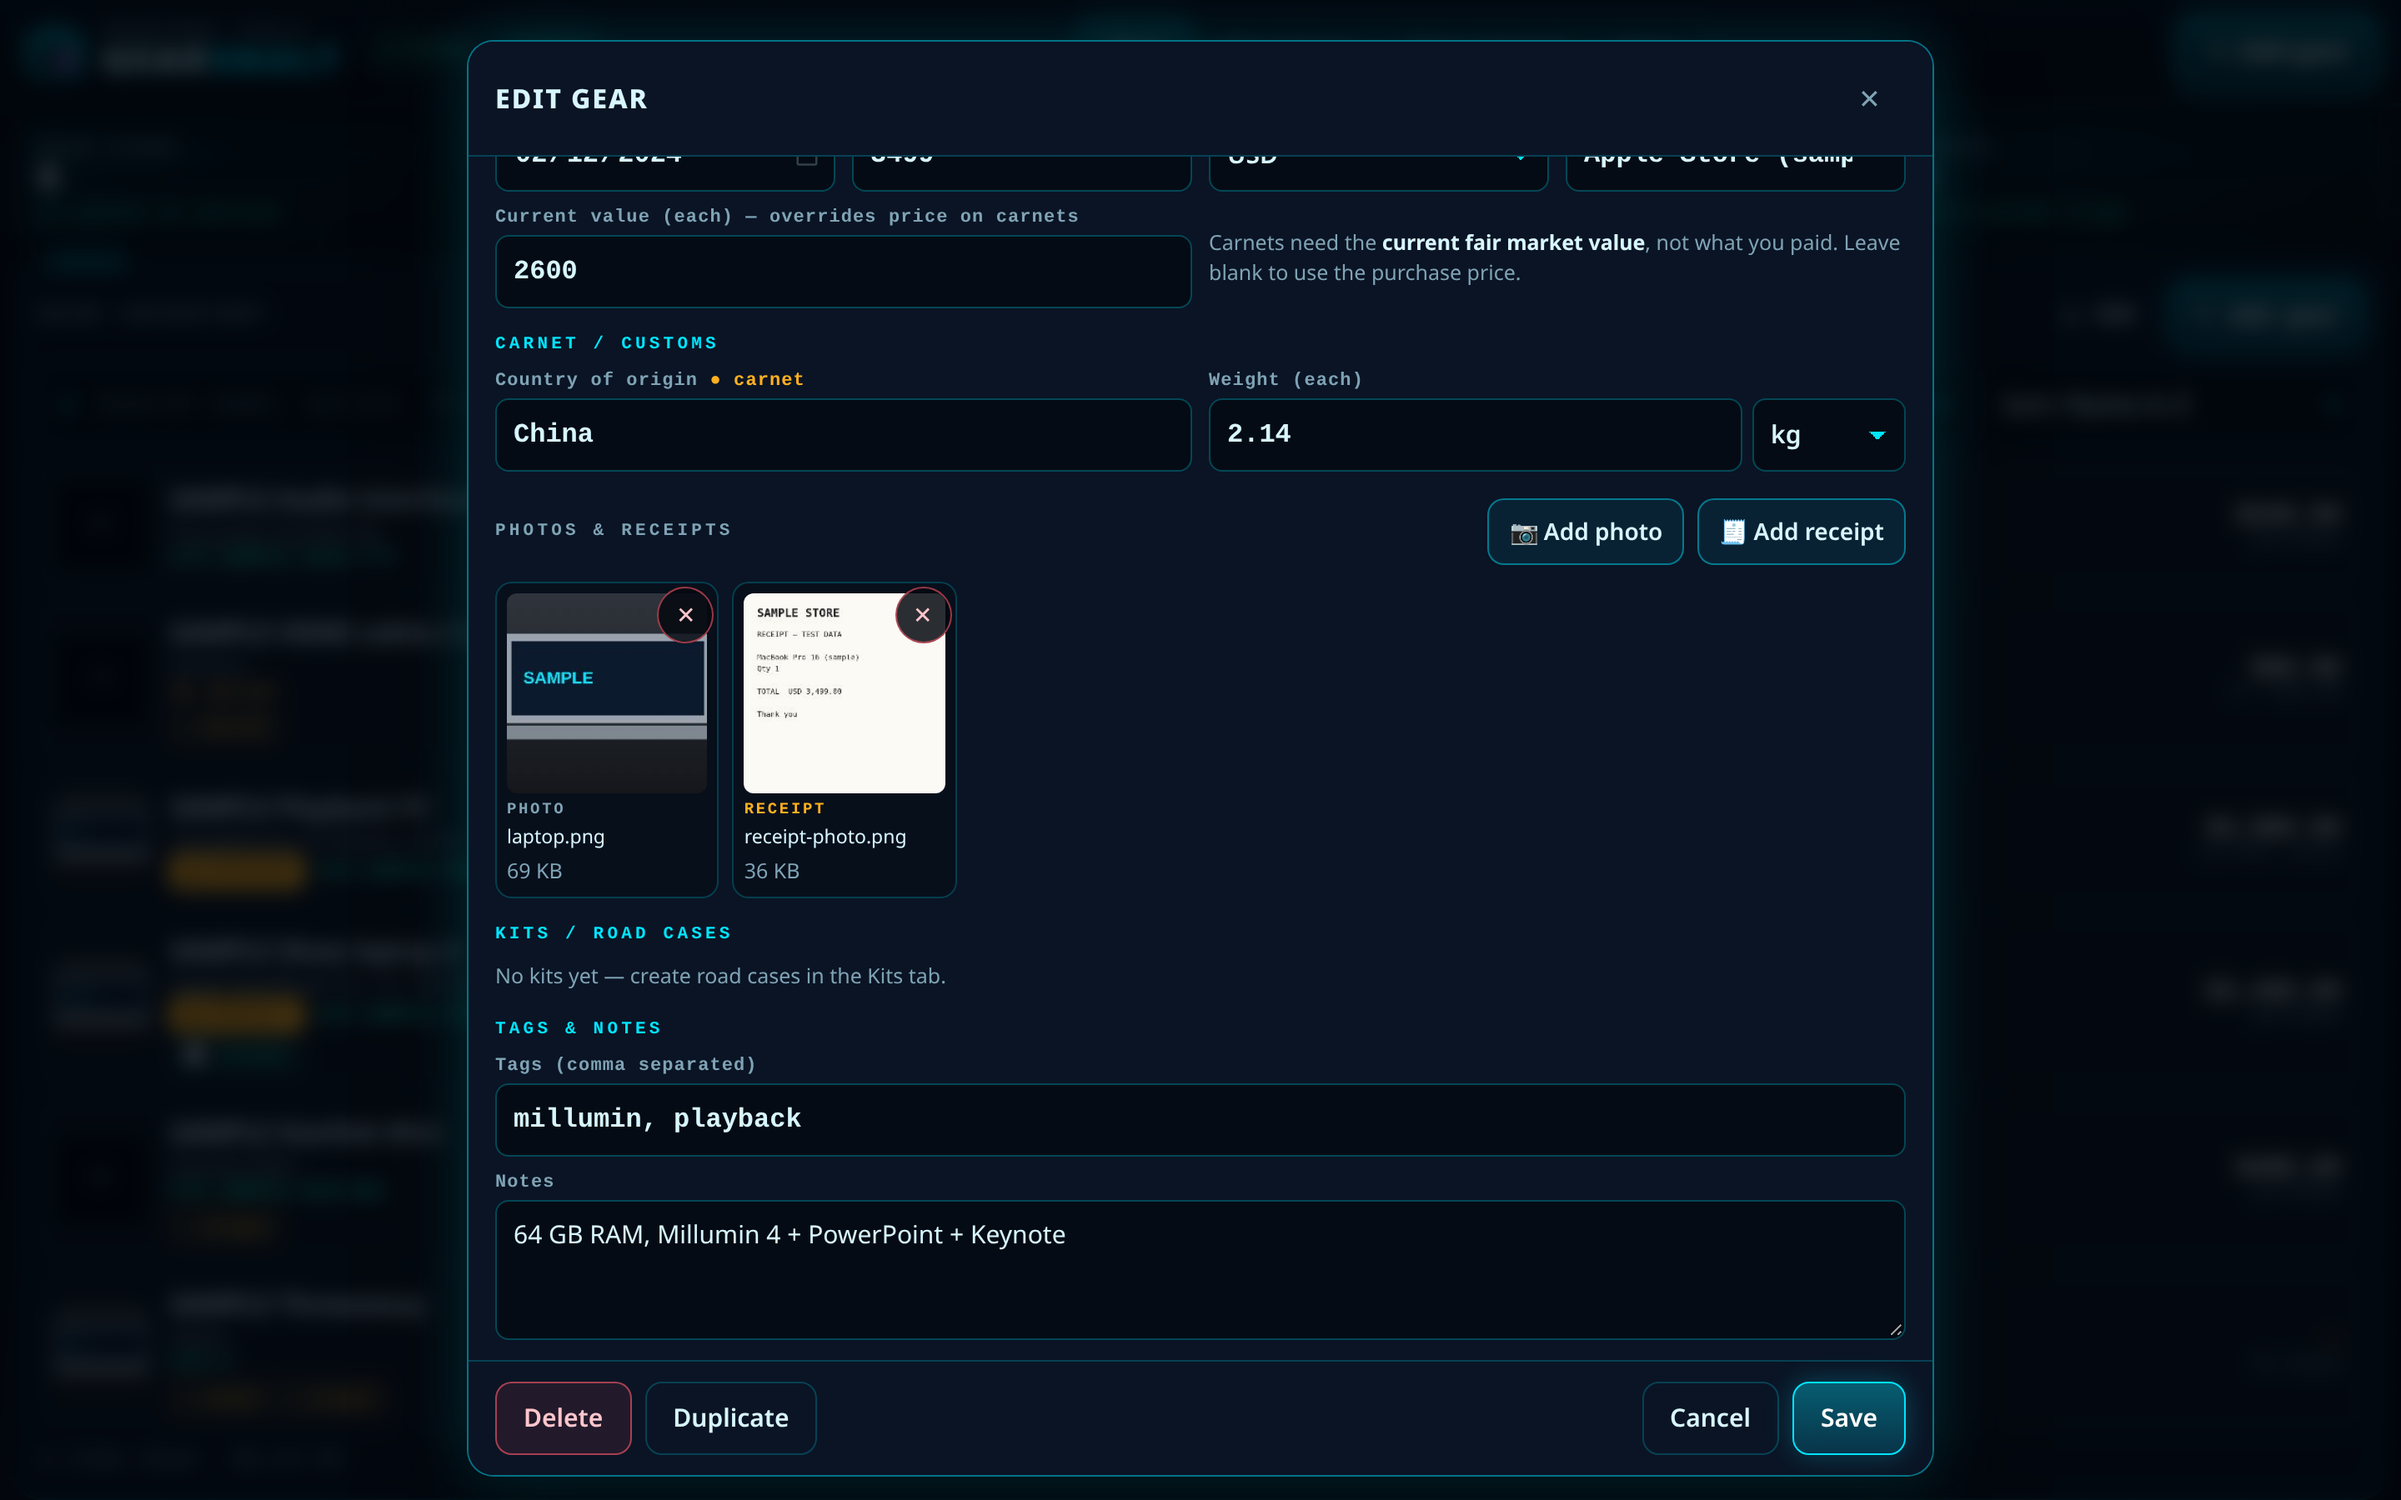
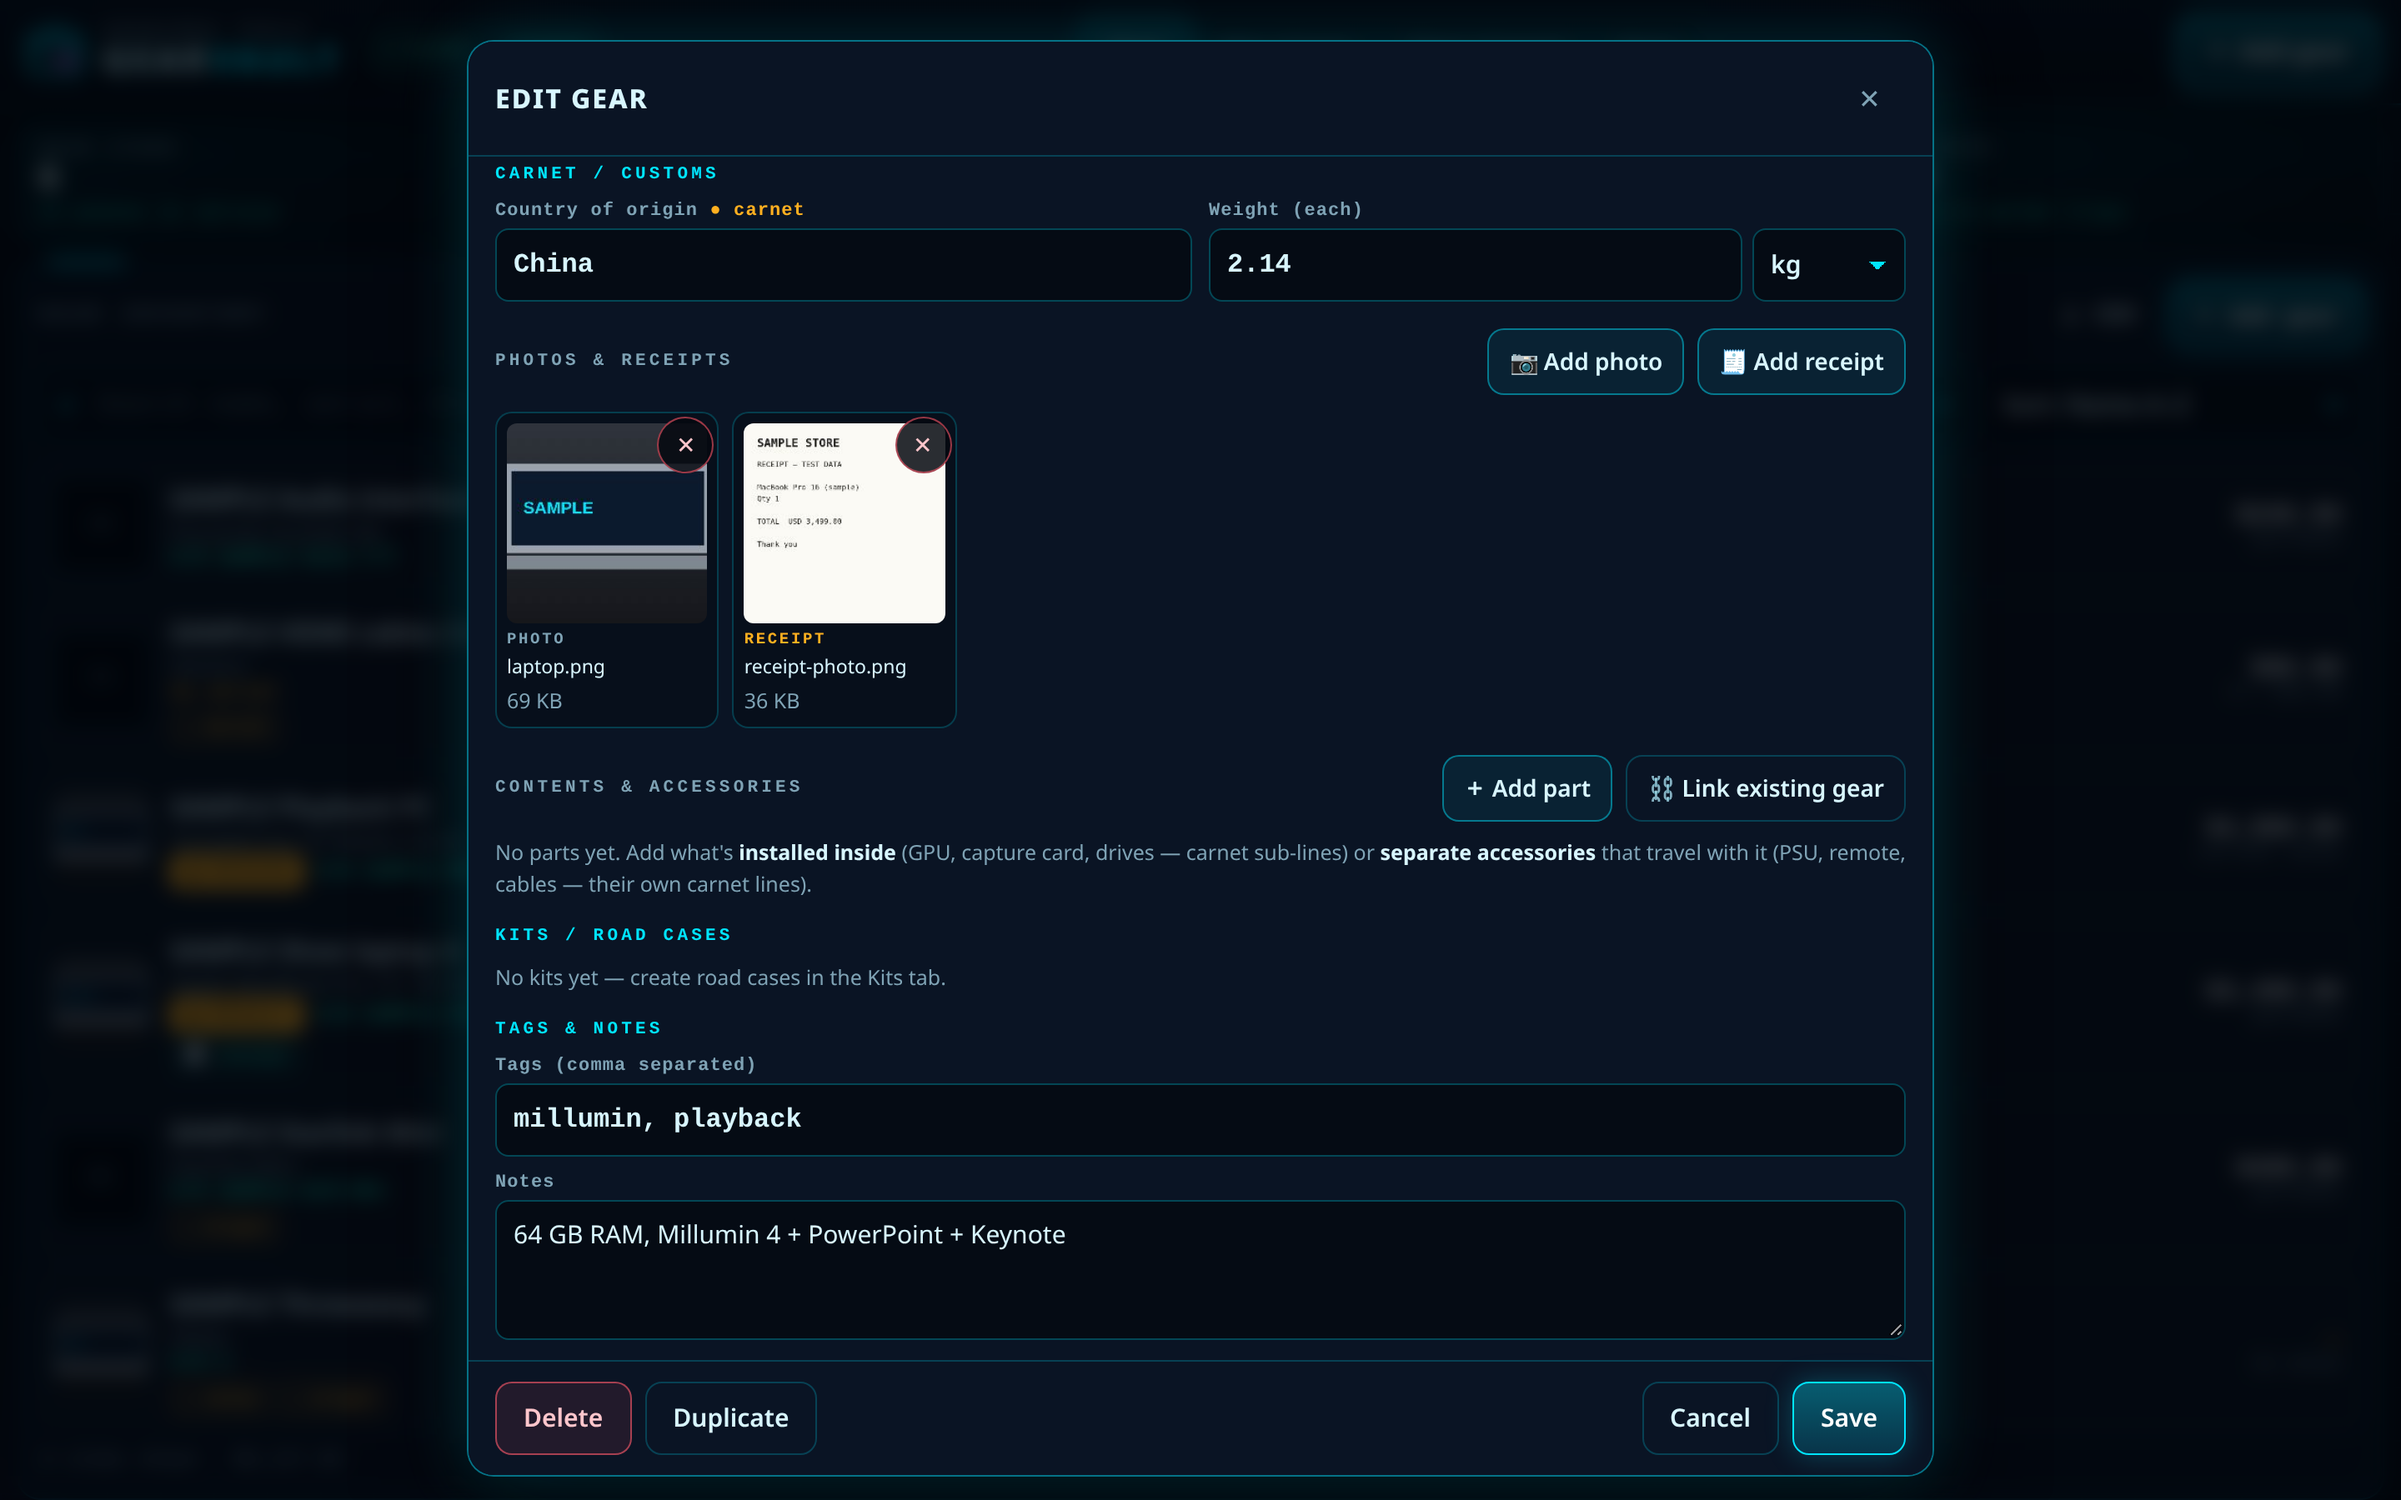
v2.2 step 9: README

diff --git a/README.md b/README.md
@@ -1,4 +1,4 @@
-# ShowCrew GearVault — ShowCrew Tools (v2.1 · Supabase cloud)
+# ShowCrew GearVault — ShowCrew Tools (v2.2 · Supabase cloud)
 
 Track computer / show gear (Millumin, PowerPoint & Keynote rigs, rack PCs, audio, network, cables, cases) with photos and receipts,
 group it into kits / road cases, and build the **ATA Carnet General List** for travel abroad.
@@ -12,7 +12,7 @@ Live: https://don-duckworth.github.io/showcrew-gearvault/ (GitHub Pages, `main` 
 ## Status of Don's project
 
 Project **ShowCrew GearVault** (ref `ggtkglxvuxvmuqtpvlgs`, us-east-2). Steps 1, 2 and 7 below are **done**: the schema is applied
-(migrations `init_gearvault` + `init_gearvault_advisor_fixes`, and for v2.1 `electromaxx_no` + `electromaxx_trip_toggle` = `0002_electromaxx.sql`) and `js/config.js` holds the project URL and the `sb_publishable_…` key.
+(migrations `init_gearvault` + `init_gearvault_advisor_fixes`, for v2.1 `electromaxx_no` + `electromaxx_trip_toggle` = `0002_electromaxx.sql`, and for v2.2 `parts_parent_child` = `0003_parts.sql`) and `js/config.js` holds the project URL and the `sb_publishable_…` key.
 Still to do in the dashboard (steps 3–6):
 
 - URL configuration (Site URL + Redirect URLs): https://supabase.com/dashboard/project/ggtkglxvuxvmuqtpvlgs/auth/url-configuration
@@ -27,7 +27,8 @@ Still to do in the dashboard (steps 3–6):
 2. **Create the tables, security rules and file bucket** — Dashboard → *SQL Editor* → *New query* → paste all of
    [`supabase/migrations/0001_init.sql`](supabase/migrations/0001_init.sql) → *Run*. It's safe to run again.
    It creates the tables, Row Level Security, and the private Storage bucket **`gear-files`** (no need to create the bucket by hand).
-   Then do the same with [`supabase/migrations/0002_electromaxx.sql`](supabase/migrations/0002_electromaxx.sql) (v2.1 Electromaxx gear number; also safe to re-run).
+   Then do the same with [`supabase/migrations/0002_electromaxx.sql`](supabase/migrations/0002_electromaxx.sql) (v2.1 Electromaxx gear number) and
+   [`supabase/migrations/0003_parts.sql`](supabase/migrations/0003_parts.sql) (v2.2 parts & accessories) — both safe to re-run.
 3. **Point auth at the app** — *Authentication → URL Configuration*:
    - **Site URL**: `https://don-duckworth.github.io/showcrew-gearvault/`
    - **Redirect URLs**: add `https://don-duckworth.github.io/showcrew-gearvault/` (and `http://localhost:8766/` if you test locally).
@@ -90,6 +91,27 @@ which only matters for password resets. Free-plan projects pause after a week of
   - *CSV*: inventory export has an **`Electromaxx #`** column; import also accepts `Electromaxx No`, `Electromaxx Number`, `electromaxx_no`, `EMX`,
     `EMX #`, `Asset tag`, `Gear #`, `Barcode`… Excel drops leading zeros (`4217`) — import pads them back to `004217`. Invalid or duplicate numbers are
     skipped (the item is still imported) and counted in the import message. JSON backup/restore and the v1 upload carry the field too.
+- **Parts & accessories (v2.2)** — gear can contain gear (`js/parts.js`). In the DB: `items.parent_id` (composite FK `(owner_id, parent_id)` →
+  `items(owner_id, id)`, so a part can only belong to *your* item; `on delete set null`), `items.part_type` = `installed` | `accessory`, a trigger that
+  rejects cycles (A part of B part of A), and `trips.fold_parts`.
+  - *Item editor*: **Contents & accessories** lists the parts (type, Electromaxx #, serial, value, total incl. parts). **＋ Add part** asks *Installed
+    inside* or *Separate accessory* and opens a new item prefilled with the parent's category, vendor, purchase date, country (and currency); saving
+    returns you to the parent. **⛓ Link existing gear** is a searchable picker (never offers the item itself or anything it is part of). ⛓✕ unlinks.
+    A part's editor shows **Part of: <parent>** (tap to open it), its part type and **Unlink**. Adding a part / linking on a brand-new item saves it first.
+  - *Deleting a parent* asks: **delete it and its parts**, or **keep the parts as standalone gear** (only its direct parts are unlinked).
+  - *Gear list*: parts are nested (indented) under their parent; the magenta **N parts** badge collapses/expands them. With a search or filter the list
+    is flat and parts carry a **↳ part of X** tag. Each item is counted once in the totals; a parent also shows its value **incl. parts** (info only).
+  - *Scan*: scanning a part's Electromaxx # opens the part and shows its parent.
+  - *Kits / trips*: adding a parent brings all its parts (any depth) along; counts include them. Any part line can still be left off one trip (✕),
+    and leaving off a parent leaves off the parts that came with it.
+  - *Carnet*: an **accessory** is its own numbered line ("accessory to item 1") and counts as pieces. **Installed** parts are sub-lines **1a, 1b…**
+    with description, serial, value and origin — no pieces, weight "incl." in the parent, value in the totals. Per-trip switch **Fold installed parts
+    into parent line** adds their value to the parent line and appends "— incl. installed: … S/N …" to its description. Missing serial / value / origin
+    checks cover parts (installed parts aren't asked for a weight). Print/PDF and CSV follow the same layout.
+  - *CSV*: inventory export/import has **Parent Electromaxx #**, **Parent serial**, **Part type** (`installed` / `accessory`; also "Installed inside",
+    "Separate accessory"). Import links rows after all rows are in (a part may come before its parent), by Parent Electromaxx #, else Parent serial;
+    unknown parents are counted in the message and the item is imported standalone. Empty parent cells don't unlink an existing part.
+    JSON backup/restore and the v1 upload carry `parentId` / `partType` / `foldParts`.
 - **Barcode scanning** (`js/scan.js`, `js/emx.js`)
   - Uses the browser's native **`BarcodeDetector`** where it exists (Chrome/Edge on Android, ChromeOS, macOS). Otherwise (iPhone/iPad Safari, Firefox,
     desktop Chrome on Windows/Linux) it loads the vendored **ZXing** decoder (`js/vendor/zxing.min.js`, @zxing/library 0.23.0, Apache-2.0 — no CDN;
@@ -108,14 +130,20 @@ which only matters for password resets. Free-plan projects pause after a week of
 
 ## Tests
 
-- `node tools/test-carnet.mjs` — carnet/CSV logic + cloud row mapping (round-trip, diff, deterministic v1→UUID ids).
+- `node tools/test-carnet.mjs` — carnet/CSV logic + cloud row mapping (round-trip, diff, deterministic v1→UUID ids), and v2.2 parts: tree helpers,
+  cycle/dangling cleanup, sub-line numbering, pieces/value/weight totals, fold, exclusions, CSV parent columns, parents-first upsert order.
 - `GV_URL=http://127.0.0.1:8766/ node tools/browser-test.mjs` — headless desktop / iPad / iPhone run (needs playwright and a local server).
   Uses an in-browser **fake Supabase client** (`tools/fake-supabase.js`, injected through `window.__GV_TEST_SUPABASE__`) that simulates auth, TOTP
   (code `246810`), owner-only + aal2 RLS and storage — no real project needed. Writes `screenshots/`.
 - Browser test section *1b* covers the Electromaxx field: validation/duplicates, CSV aliases, carnet toggle, decoding every barcode fixture from a
   photo, a **live scan through Chromium's fake camera** (a y4m video built from `tools/fixtures/camera-004222.png`) with ZXing, and a mocked native
   `BarcodeDetector`. Fixtures are made with `tools/make-barcodes.py` (needs `python-barcode`, `qrcode`, `pillow`).
+- Browser test section *1c* covers parts: add part (prefill), link picker (excludes self/ancestors), Part of / unlink, nested list + totals,
+  collapse, search tag, scanning a part, kit/trip inclusion and exclusion, carnet sub-lines / accessory lines / fold on screen, print and CSV, inventory
+  CSV parent columns, backup + restore, both delete-parent choices. The fake client mirrors the parent FK, cycle check and `on delete set null`.
 - `tools/test-sql.sh` — runs the migrations twice (idempotency) against a local Postgres with small Supabase stubs (`supabase/tests/local-stub.sql`)
   and then `supabase/tests/rls-test.sql` (25 checks: aal1 gets nothing, cross-user isolation, forged owner_id, foreign folders in storage, cross-owner links, anon…), then `supabase/tests/electromaxx-test.sql`
-  (10 checks: 6-digit format, NULL allowed, unique per owner on insert/update, other owners may reuse a number, `show_emx` default).
+  (10 checks: 6-digit format, NULL allowed, unique per owner on insert/update, other owners may reuse a number, `show_emx` default), then
+  `supabase/tests/parts-test.sql` (15 checks: part_type values, no self-parent, no cycles, cross-owner parents rejected, delete parent → parent_id NULL,
+  roots-first multi-row upserts, `fold_parts` default, aal1/other users can't relink).
 - Icons: `node tools/make-icons.mjs` (needs playwright).
